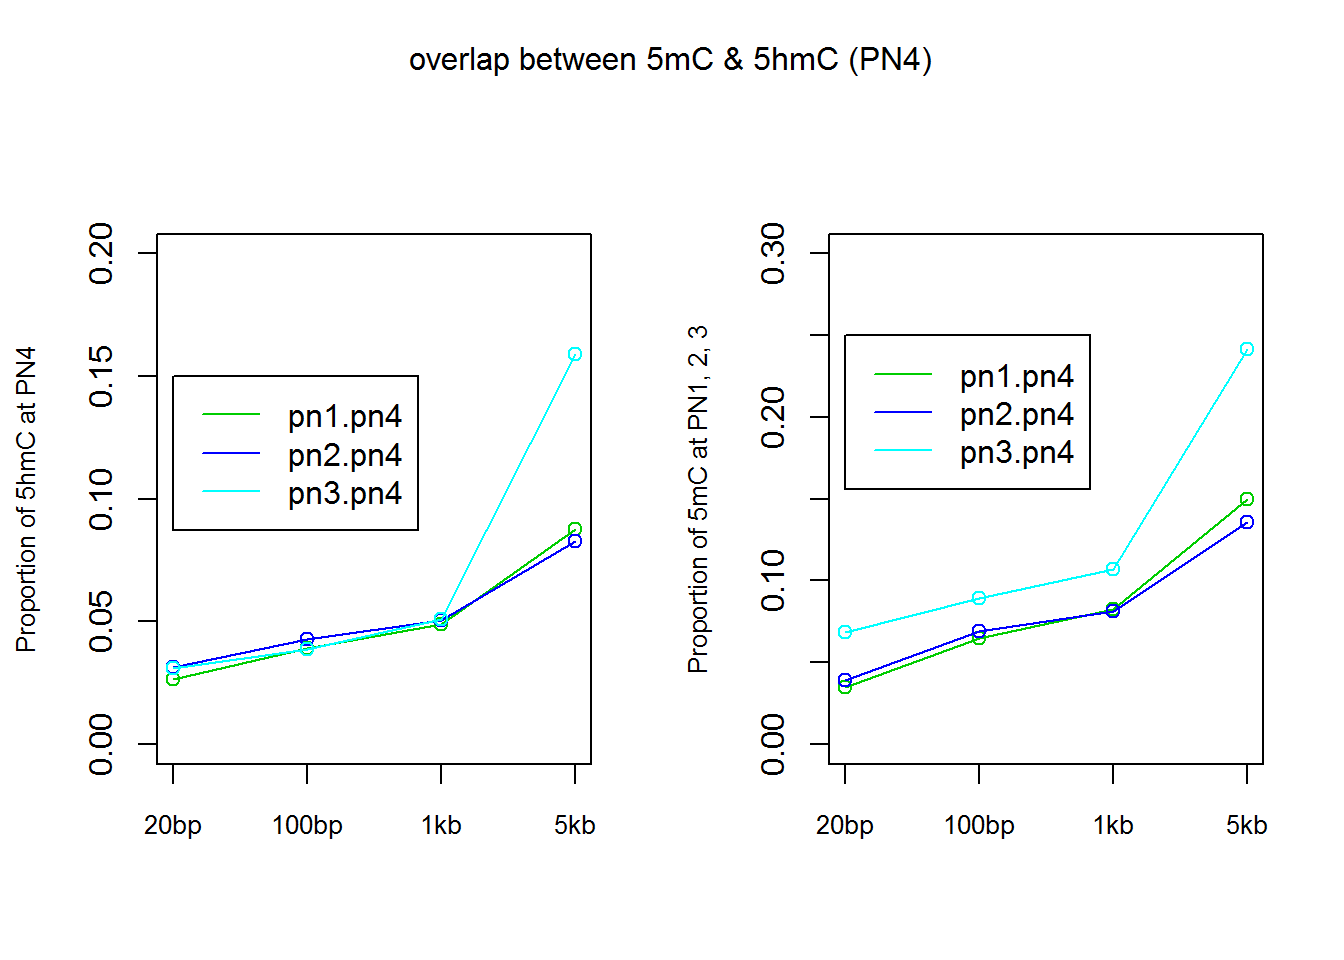
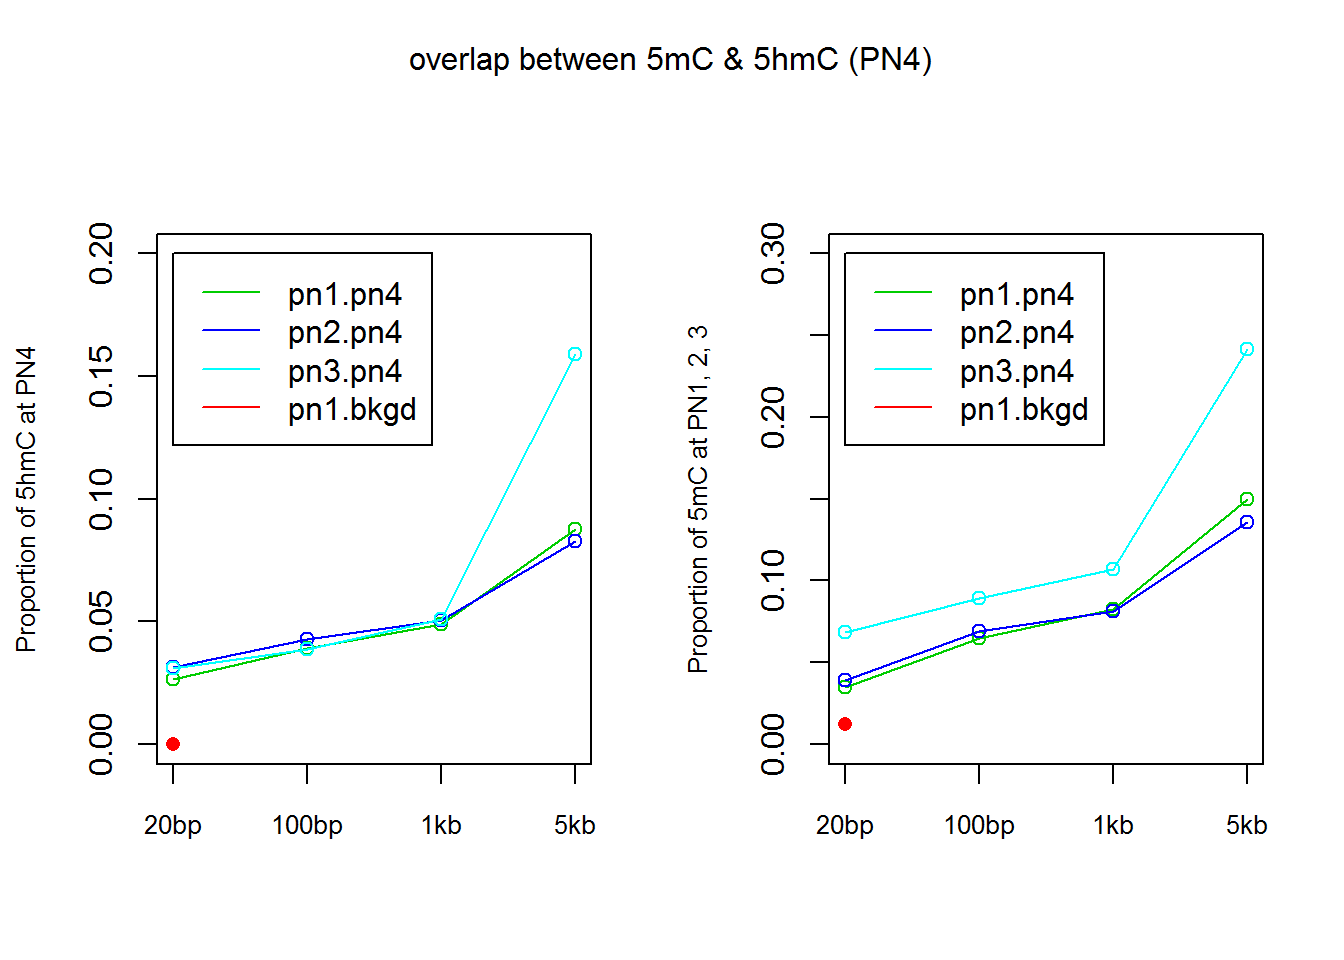
Nov 17

diff --git a/docs/PGC-analysis.html b/docs/PGC-analysis.html
@@ -312,10 +312,10 @@ div.tocify {
 shared across the workflowr files. -->
 <!-- Update knitr chunk options -->
 <!-- Insert the date the file was last updated -->
-<p><strong>Last updated:</strong> 2017-11-07</p>
+<p><strong>Last updated:</strong> 2017-11-17</p>
 <!-- Insert the code version (Git commit SHA1) if Git repository exists and R
  package git2r is installed -->
-<p><strong>Code version:</strong> ae6afd3</p>
+<p><strong>Code version:</strong> 2c281b6</p>
 <!-- Add your analysis here -->
 <div id="mouse-genome-mm9" class="section level2">
 <h2>mouse genome (mm9)</h2>
@@ -6945,6 +6945,9 @@ Glis3
 <div id="mc-pn1-2-3-vs-5hmc-pn4" class="section level3">
 <h3>5mC (PN1, 2, 3) vs 5hmC (PN4)</h3>
 <p><img src="figure/PGC-analysis.Rmd/unnamed-chunk-65-1.png" width="672" style="display: block; margin: auto;" /></p>
+<ul>
+<li>background: 20 bp window overlap with PN1 is 3.75e-05 and 0.01245.</li>
+</ul>
 </div>
 <div id="mc-pn1-2-vs-5hmc-pn3" class="section level3">
 <h3>5mC (PN1, 2) vs 5hmC (PN3)</h3>
